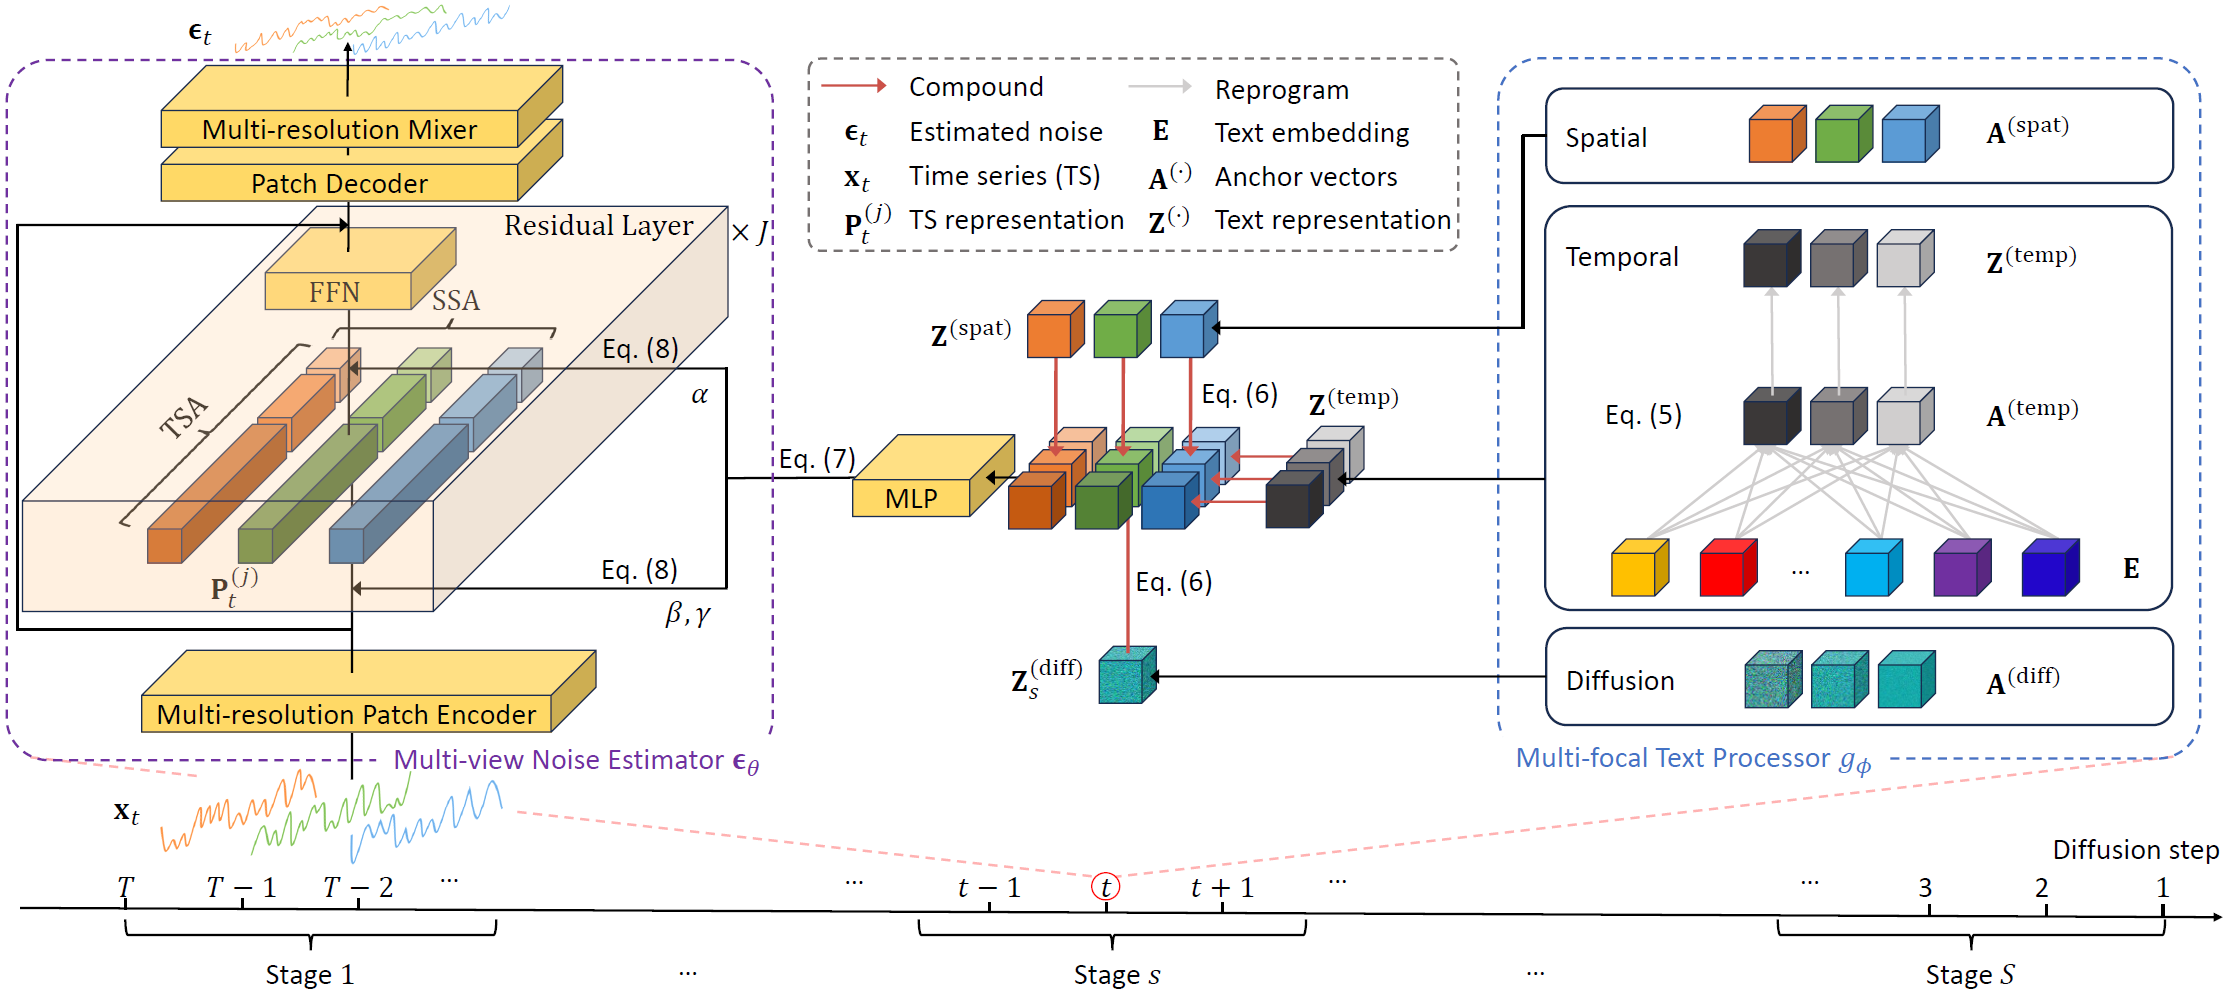
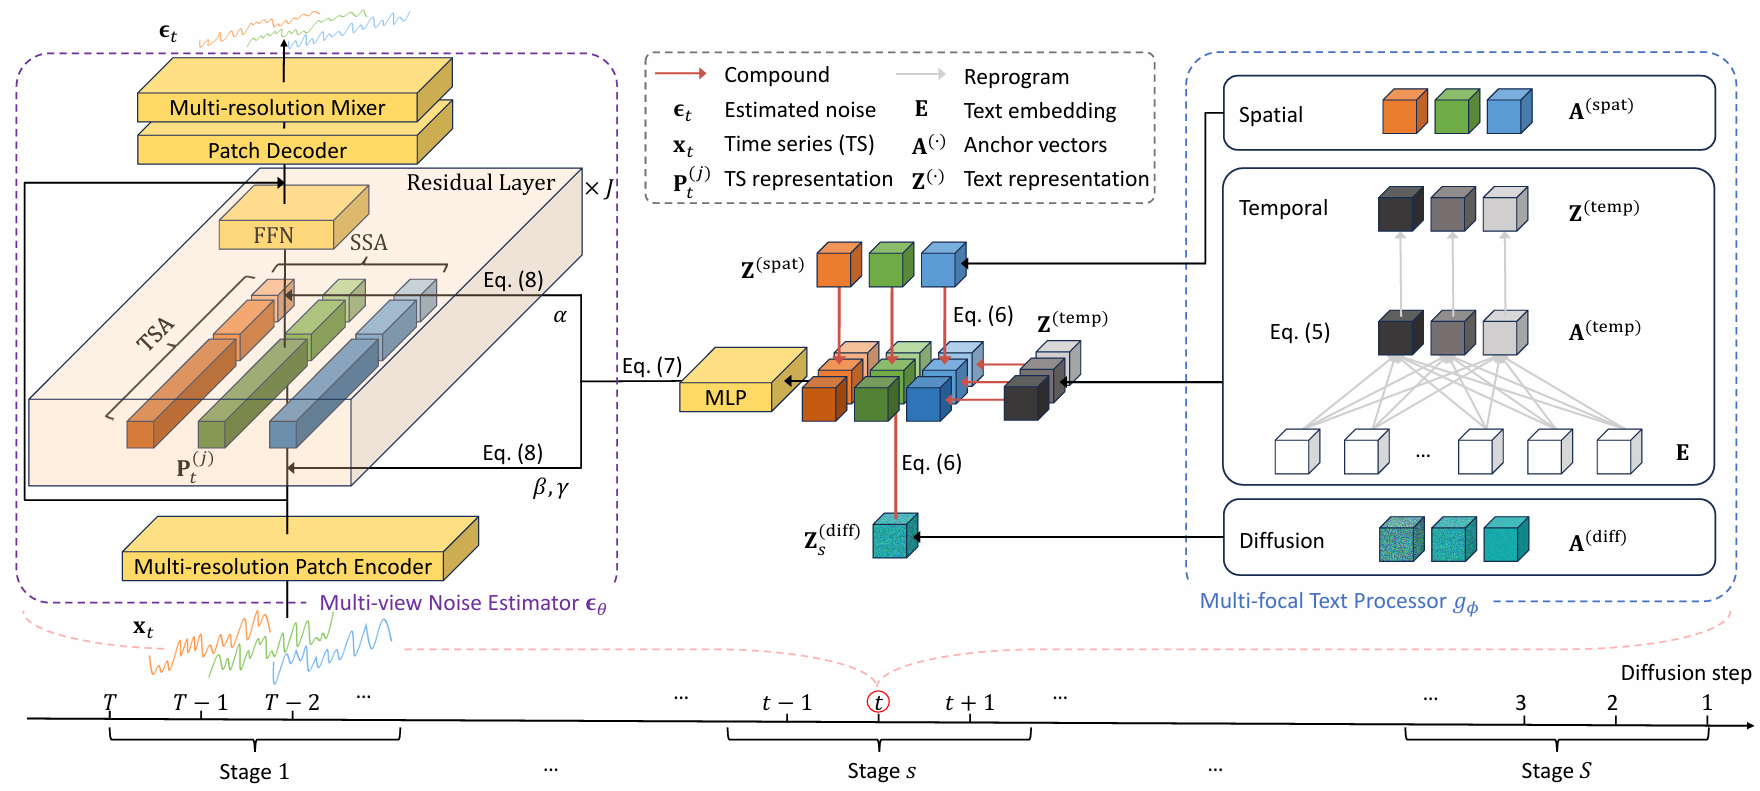
update

diff --git a/VerbalTS/index.html b/VerbalTS/index.html
@@ -96,7 +96,7 @@
             <div class="publication-links">
               <!-- PDF Link. -->
               <span class="link-block">
-                <a href=""
+                <a href="https://icml.cc/virtual/2025/poster/45631"
                    class="external-link button is-normal is-rounded is-dark">
                   <span class="icon">
                       <i class="fas fa-file-pdf"></i>
@@ -104,7 +104,7 @@
                   <span>Paper</span>
                 </a>
               </span>
-              <span class="link-block">
+              <!-- <span class="link-block">
                 <a href=""
                    class="external-link button is-normal is-rounded is-dark">
                   <span class="icon">
@@ -112,10 +112,10 @@
                   </span>
                   <span>arXiv</span>
                 </a>
-              </span>
+              </span> -->
               <!-- Code Link. -->
               <span class="link-block">
-                <a href=""
+                <a href="https://github.com/seqml/VerbalTS/tree/main"
                    class="external-link button is-normal is-rounded is-dark">
                   <span class="icon">
                       <i class="fab fa-github"></i>

diff --git a/verbalts/index.html b/verbalts/index.html
@@ -96,7 +96,7 @@
             <div class="publication-links">
               <!-- PDF Link. -->
               <span class="link-block">
-                <a href=""
+                <a href="https://icml.cc/virtual/2025/poster/45631"
                    class="external-link button is-normal is-rounded is-dark">
                   <span class="icon">
                       <i class="fas fa-file-pdf"></i>
@@ -104,7 +104,7 @@
                   <span>Paper</span>
                 </a>
               </span>
-              <span class="link-block">
+              <!-- <span class="link-block">
                 <a href=""
                    class="external-link button is-normal is-rounded is-dark">
                   <span class="icon">
@@ -112,10 +112,10 @@
                   </span>
                   <span>arXiv</span>
                 </a>
-              </span>
+              </span> -->
               <!-- Code Link. -->
               <span class="link-block">
-                <a href=""
+                <a href="https://github.com/seqml/VerbalTS/tree/main"
                    class="external-link button is-normal is-rounded is-dark">
                   <span class="icon">
                       <i class="fab fa-github"></i>
